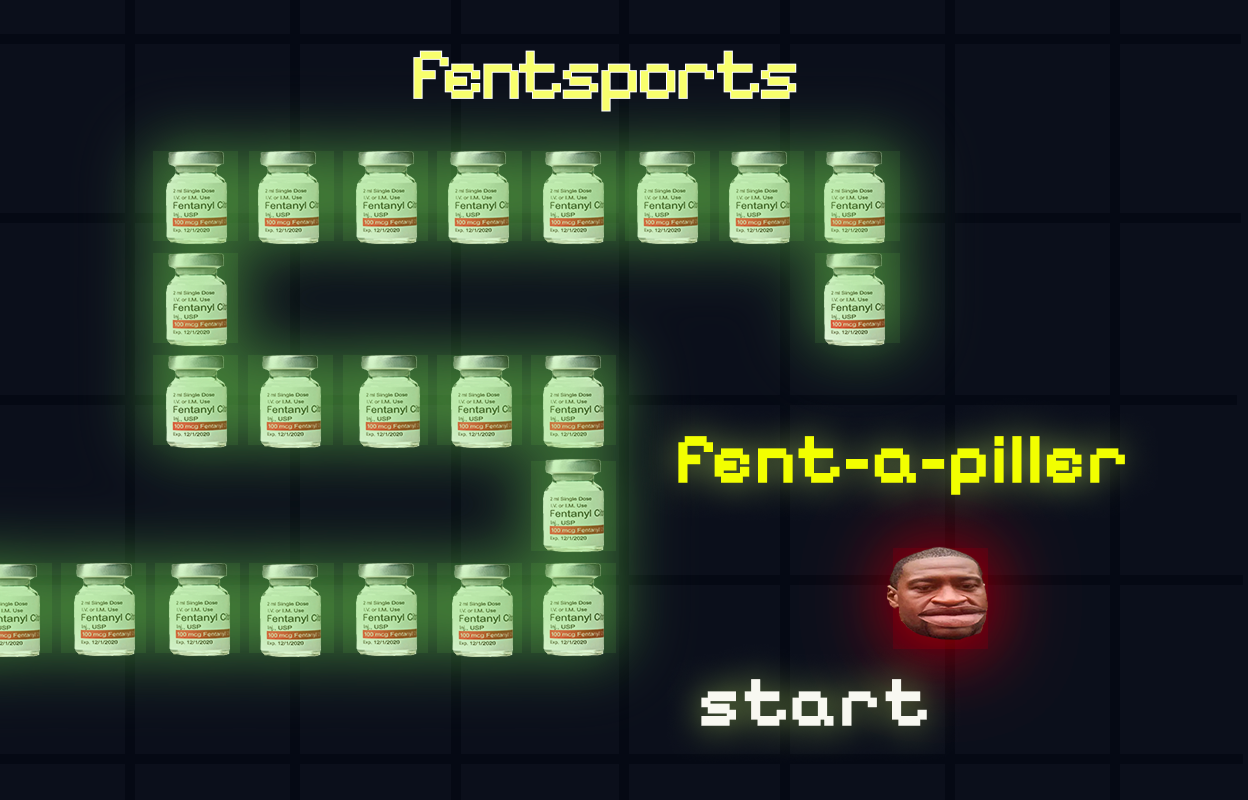
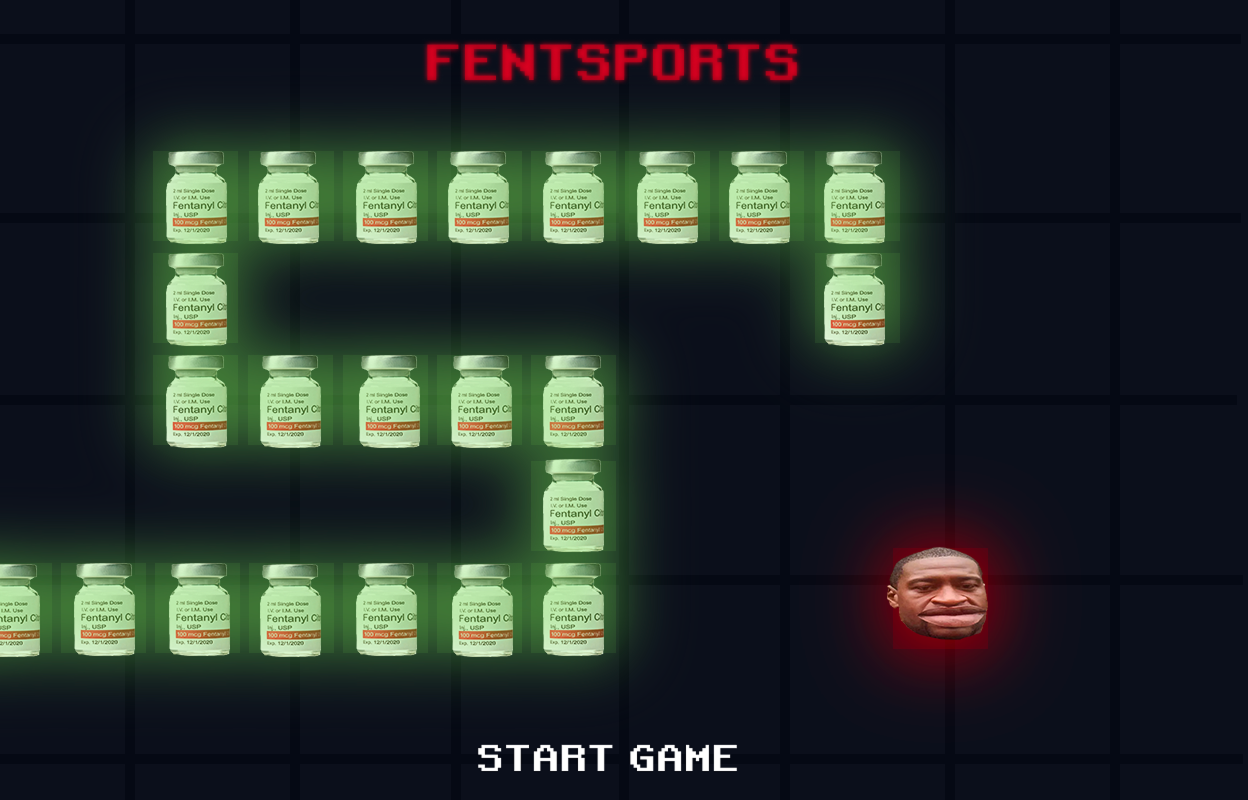
minor edits

Changed region(s): [[0.5312, 0.5312, 0.9062, 0.625], [0.3125, 0.0312, 0.6562, 0.1562], [0.375, 0.8438, 0.75, 0.9688]]

diff --git a/src/App.tsx b/src/App.tsx
@@ -12,6 +12,13 @@ import { UserRegistrationModal } from "./components/UserRegistrationModal";
 
 const API_URL = import.meta.env.VITE_API_URL;
 
+// After your games configuration (around line 27)
+const GAME_SECRETS: Record<string, string> = {
+  FentMan: process.env.VITE_FENTMAN_SECRET || 'default_secret_1',
+  FentFall: process.env.VITE_FENTFALL_SECRET || 'default_secret_2',
+  FentaPiller: process.env.VITE_FENTAPILLER_SECRET || 'default_secret_3',
+};
+
 function Home() {
   const [selectedGameUrl, setSelectedGameUrl] = useState<string | null>(null);
   const [sessionToken, setSessionToken] = useState<string | null>(null);
@@ -23,7 +30,7 @@ function Home() {
   const games: Record<string, { url: string; name: string }> = {
     FentMan: { url: "https://effortless-marshmallow-2f2b8c.netlify.app/", name: "FentMan" },
     FentFall: { url: "https://amazing-sprinkles-bd617e.netlify.app/", name: "FentFall" },
-    FlappyFloyd: { url: "https://fastidious-florentine-b554ce.netlify.app/", name: "FlappyFloyd" },
+    FentaPiller: { url: "https://benevolent-eclair-4b23fd.netlify.app/", name: "FentaPiller" },
   };
 
   // Check registration status on wallet connection
@@ -161,15 +168,19 @@ function Home() {
   useEffect(() => {
     const handleMessage = async (event: MessageEvent) => {
       if (event.data && event.data.type === "GAME_FINISHED") {
-        const { score, game } = event.data;
-        console.log("Final score received from game:", score);
+        const { score, game, timestamp, signature } = event.data;
+        
+        // Verify the game origin
+        const gameUrls = Object.values(games).map(g => new URL(g.url).origin);
+        if (!gameUrls.includes(event.origin)) {
+          console.error('Invalid origin:', event.origin);
+          return;
+        }
+
         if (publicKey && sessionToken && signMessage) {
           const walletAddress = publicKey.toBase58();
-          const timestamp = Date.now();
-          // Create a message string that includes game, score, session token, and timestamp.
-          const signatureMessage = `Game:${game},Score:${score},Session:${sessionToken},Timestamp:${timestamp}`;
           try {
-            const signatureBytes = await signMessage(new TextEncoder().encode(signatureMessage));
+            const signatureBytes = await signMessage(new TextEncoder().encode(signature));
             const clientSignature = bs58.encode(signatureBytes);
             const response = await fetch(`${API_URL}/api/score`, {
               method: "POST",
@@ -183,7 +194,7 @@ function Home() {
                 score,
                 sessionToken,
                 clientSignature,
-                signatureMessage,
+                signatureMessage: signature,
               }),
             });
             if (!response.ok) {

diff --git a/src/components/GameModal.tsx b/src/components/GameModal.tsx
@@ -1,7 +1,7 @@
 // src/components/GameModal.tsx
 import React, { useRef } from "react";
 
-interface GameModalProps {
+export interface GameModalProps {
   gameUrl: string;
   onClose: () => void;
 }
@@ -10,18 +10,55 @@ export function GameModal({ gameUrl, onClose }: GameModalProps) {
   const iframeRef = useRef<HTMLIFrameElement>(null);
 
   return (
-    <div className="fixed inset-0 z-50 flex items-center justify-center bg-black bg-opacity-75">
-      <div className="relative w-full max-w-[800px] h-[90vh] bg-[#2A2A2A] m-0 p-0 overflow-hidden">
+    <div
+      style={{
+        position: "fixed",
+        top: 0,
+        left: 0,
+        width: "100vw",
+        height: "100vh",
+        backgroundColor: "rgba(0, 0, 0, 0.75)", // Dark overlay in the background
+        display: "flex",
+        alignItems: "center",
+        justifyContent: "center",
+      }}
+    >
+      <div
+        style={{
+          padding: "20px",
+          background: "linear-gradient(135deg, #4e4e4e, #222)",
+          border: "4px double #fff",
+          borderRadius: "12px",
+          boxShadow: "0 0 15px rgba(0, 0, 0, 0.8), inset 0 0 10px rgba(255, 255, 255, 0.1)",
+          position: "relative",
+        }}
+      >
         <iframe
           ref={iframeRef}
           src={gameUrl}
-          className="w-full h-full m-0 p-0"
-          style={{ border: "none" }}
+          style={{
+            display: "block",
+            width: "512px",
+            height: "480px",
+            border: "none",
+            boxShadow: "0 0 20px rgba(0, 0, 0, 0.3)",
+            borderRadius: "4px",
+          }}
           title="Game"
         />
         <button
           onClick={onClose}
-          className="absolute top-2 right-2 px-2 py-1 bg-gradient-to-r from-[#ff2975] to-[#8c1eff] rounded-md text-white font-silkscreen z-10"
+          style={{
+            position: "absolute",
+            top: "10px",
+            right: "10px",
+            padding: "4px 8px",
+            background: "linear-gradient(135deg, #ff2975, #8c1eff)",
+            color: "#fff",
+            border: "none",
+            borderRadius: "4px",
+            cursor: "pointer",
+          }}
         >
           Close
         </button>

diff --git a/src/components/ThreeDCarousel.tsx b/src/components/ThreeDCarousel.tsx
@@ -147,8 +147,8 @@ export function ThreeDCarousel({ onItemClick }: ThreeDCarouselProps) {
   // Define your carousel items with consistent game names
   const carouselItems: CarouselItem[] = [
     { key: "FentMan", image: "/images/image1.png" },
-    { key: "FentFall", image: "/images/image3.png" },
-    { key: "FlappyFloyd", image: "/images/image2.png" },
+    { key: "FentFall", image: "/images/image2.png" },
+    { key: "FentaPiller", image: "/images/image3.png" },
   ];
 
   // Map over the items to create clickable carousel slides

diff --git a/src/pages/Leaderboard.tsx b/src/pages/Leaderboard.tsx
@@ -5,7 +5,7 @@ import { Link } from "react-router-dom";
 import { useWallet } from "@solana/wallet-adapter-react";
 
 // Define the games you support
-const games = ['FentMan', 'FentFall', 'FlappyFloyd'];
+const games = ['FentMan', 'FentFall', 'FentaPiller'];
 
 const API_URL = import.meta.env.VITE_API_URL;
 
